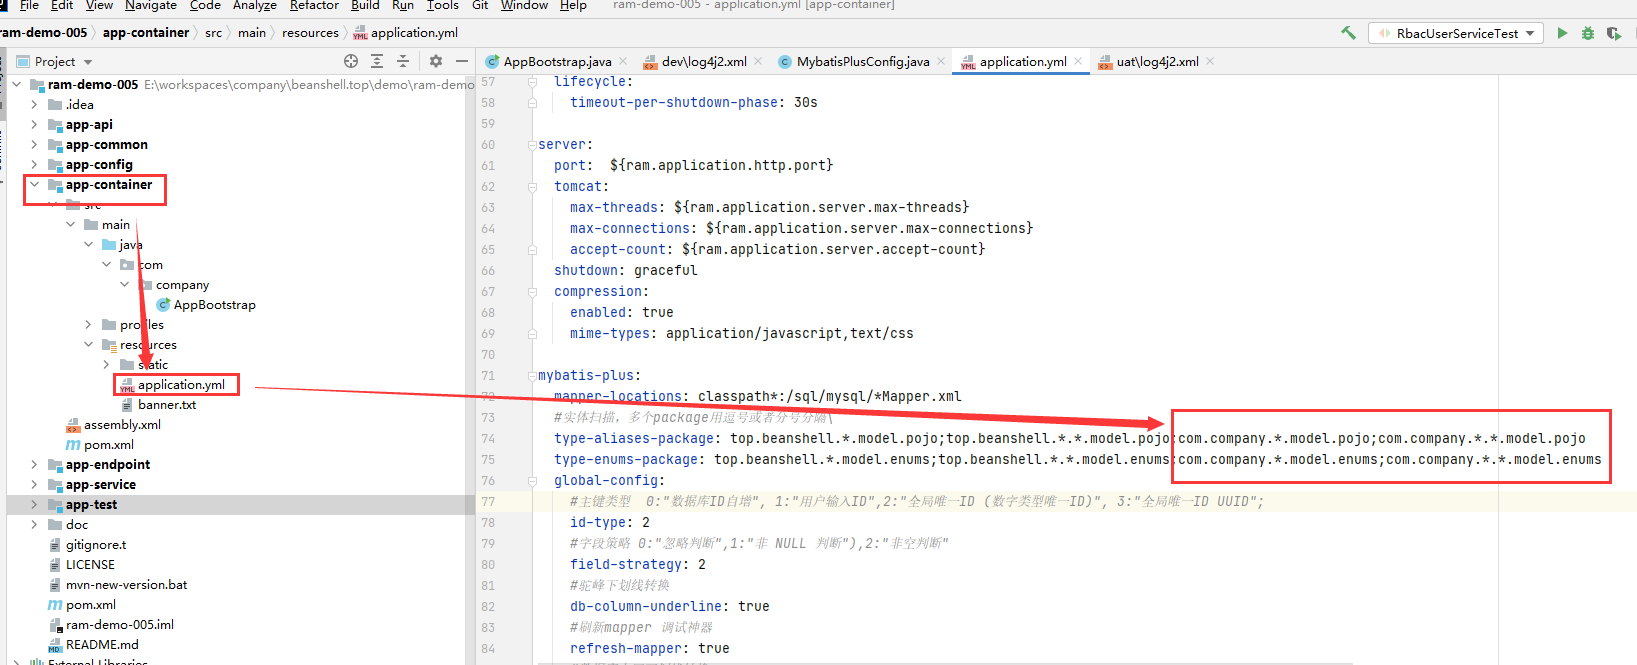
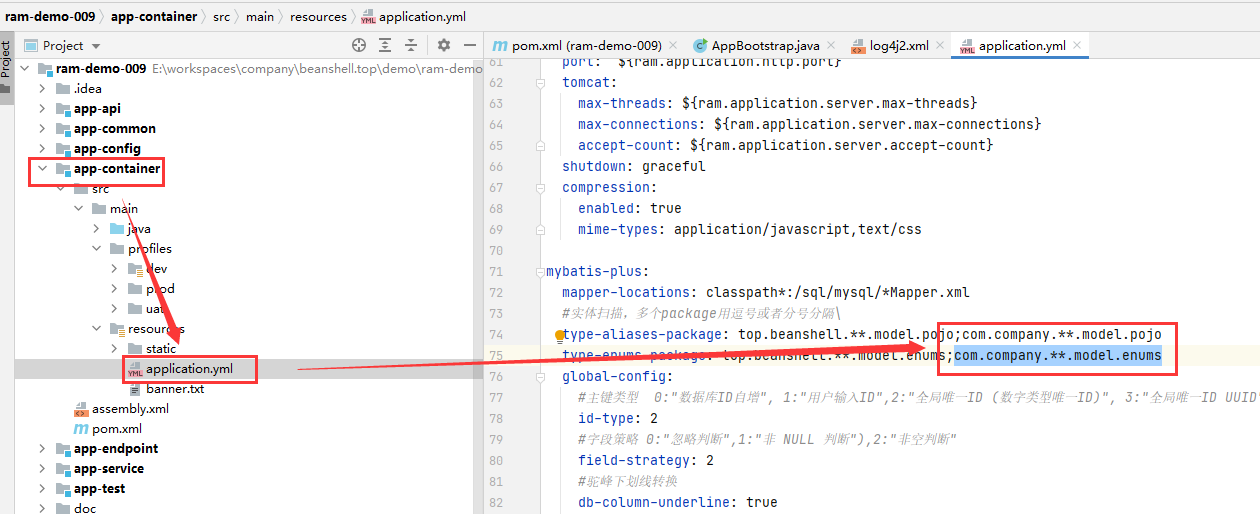
1. 优化部分配置 2. 修正部分文案

Changed region(s): [[0.0, 0.0, 1.0, 1.0]]

diff --git a/README.md b/README.md
@@ -90,8 +90,8 @@ New Project-->Maven-->Create from archetype--> Add Archetype
 3. mybatis plus 的mapper扫描配置需添加top.beanshell.**.mapper
    
    ![modify-property](./doc/img/11-modify-properties.png)
-4. mybatis plus的pojo数据库实体映射类扫描配置需添加 com.company.*.model.pojo;com.company.*.*.model.pojo （以com.company作为你的groupId为例）
-5. mybatis plus的枚举包路径扫描配置需添加 com.company.*.model.enums;com.company.*.*.model.enums （以com.company作为你的groupId为例）
+4. mybatis plus的pojo数据库实体映射类扫描配置需添加 com.company.**.model.pojo（以com.company作为你的groupId为例）
+5. mybatis plus的枚举包路径扫描配置需添加 com.company.**.model.enums（以com.company作为你的groupId为例）
    
    ![modify-property](./doc/img/12-modify-properties.png)
 6. 修正app-test下的单元测试类，部分ram基础组件的包名被maven自动替换了，只需将 com.company 替换为 top.beanshell 即可修正错误。（以com.company作为你的groupId为例）
@@ -163,8 +163,8 @@ target 文件夹下，包含两个子文件夹 jar、tar。
 
 ### 部署
 
-请参考官网教程： [beanshell.top](https://beanshell.top)
+请参考官网教程： [https://beanshell.top](https://beanshell.top)
 
 ### 更新迭代
 
-请参考官网教程： [beanshell.top](https://beanshell.top)
+请参考官网教程： [https://beanshell.top](https://beanshell.top)
